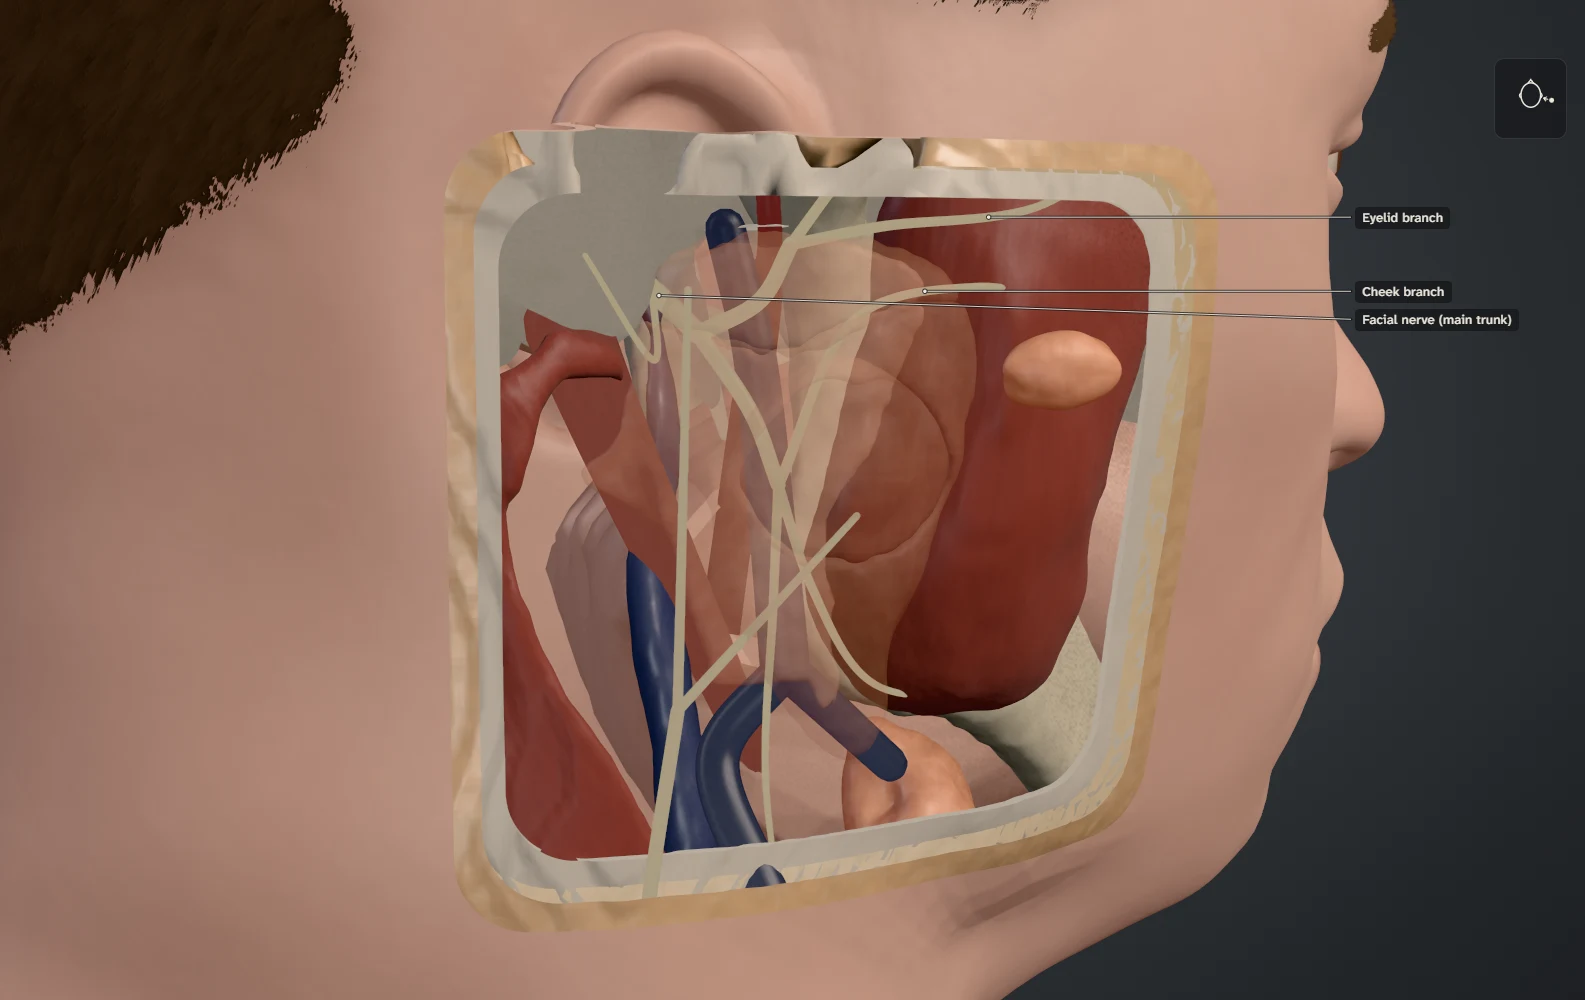
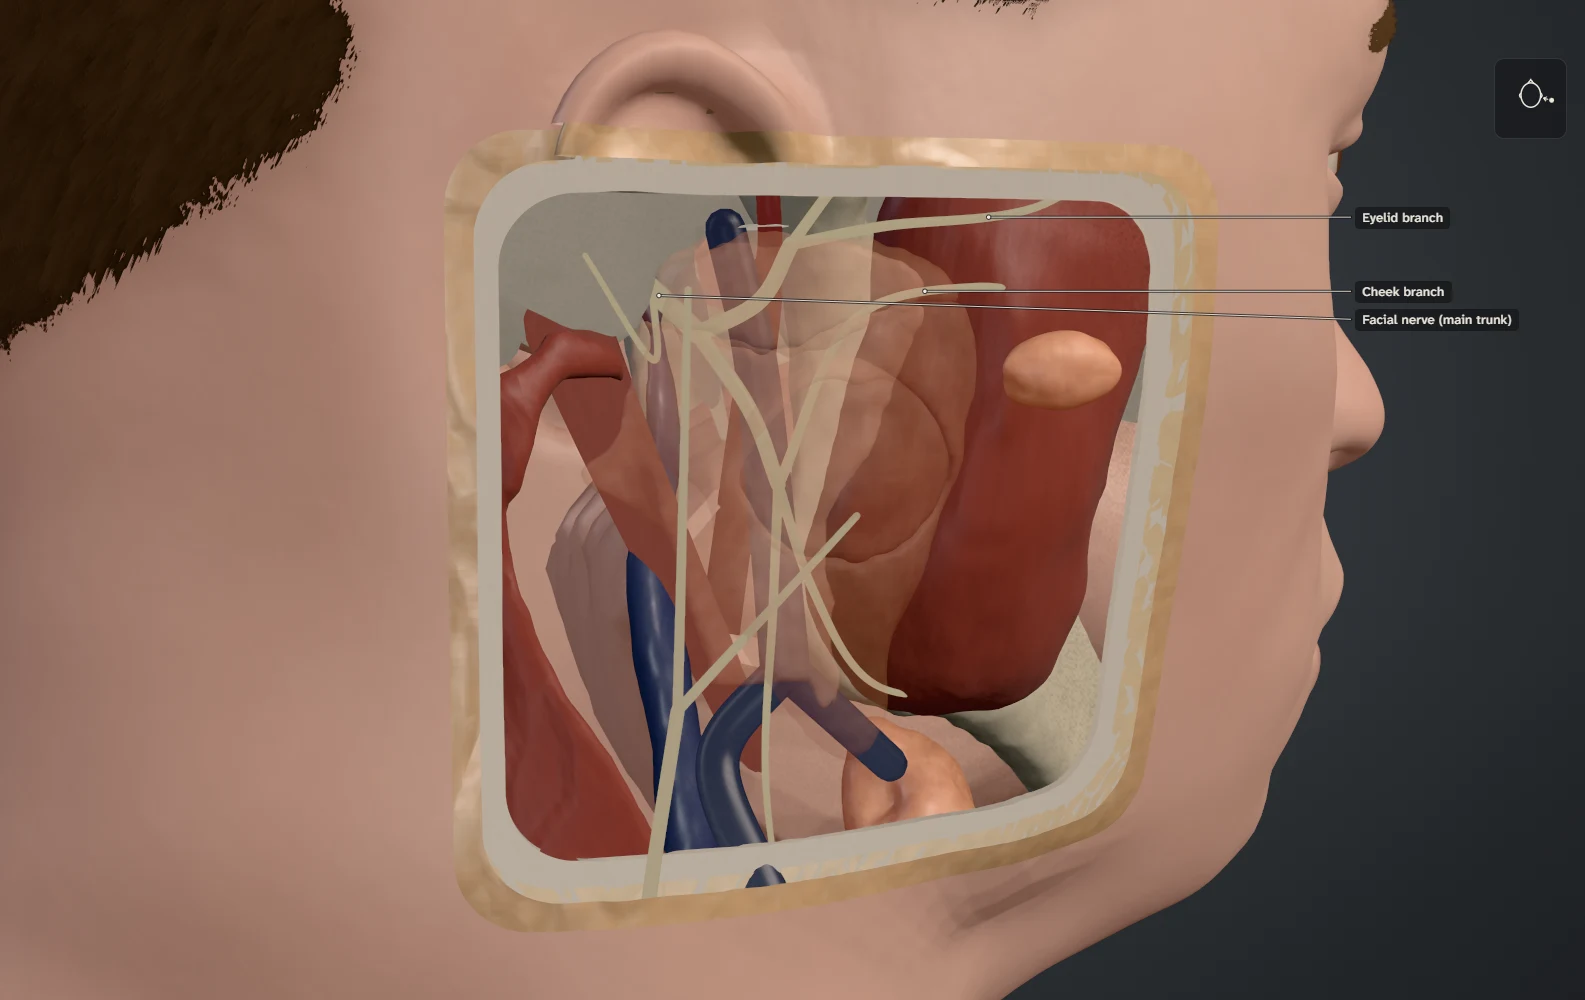
Final validation: capture 25/25, perf within tolerance, figures regenerated; pass closed
- Static figures regenerated on the canonical asset; capture suite 25/25.
- Perf: every measure within tolerance; the final runs ran at ~56 Hz display pacing (a blank page measured the
  same 18 ms), shown by bisecting the asset, the poster and the stage code; recorded in docs/perf/README.md.
- Panels over the stage no longer use backdrop-filter (per-frame re-blur of a live canvas).
- FINAL_PASS_STATUS.md and STATUS.md record the closed pass, validation and deferred P2 items.

diff --git a/apps/site/src/styles/atlas.css b/apps/site/src/styles/atlas.css
@@ -66,6 +66,8 @@ body {
   outline-offset: 3px;
 }
 
+/* Panels over the stage are translucent and do not use backdrop-filter: it would re-blur a canvas that changes every
+   frame, a per-frame compositor cost on lower-end hardware for little visible gain over these opaque scrims. */
 /* ── Masthead ─────────────────────────────────────────────────────────────────────────── */
 .masthead {
   position: fixed;
@@ -100,8 +102,6 @@ body {
   /* a scrim keeps the controls legible over pale bone or bright tissue */
   padding: 0.3rem 0.45rem 0.3rem 0.75rem;
   background: rgba(20, 21, 24, 0.7);
-  -webkit-backdrop-filter: blur(12px);
-  backdrop-filter: blur(12px);
   border: 1px solid rgba(236, 230, 220, 0.12);
   border-radius: 10px;
 }
@@ -217,8 +217,6 @@ body {
   color: var(--ink);
   padding: 0.18rem 0.45rem;
   background: rgba(20, 21, 24, 0.72);
-  -webkit-backdrop-filter: blur(6px);
-  backdrop-filter: blur(6px);
   border-radius: 4px;
   max-width: 218px; /* the margin column (director LABEL_WIDTH 230) */
   width: max-content;
@@ -249,8 +247,6 @@ body {
   height: 5.1rem;
   padding: 0.25rem;
   background: rgba(20, 21, 24, 0.62);
-  -webkit-backdrop-filter: blur(10px);
-  backdrop-filter: blur(10px);
   border: 1px solid rgba(236, 230, 220, 0.12);
   border-radius: 10px;
   pointer-events: none;
@@ -341,8 +337,6 @@ body {
   color: var(--ink-faint);
   padding: 0.55rem 0.8rem 0.6rem 0.75rem;
   background: rgba(20, 21, 24, 0.55);
-  -webkit-backdrop-filter: blur(10px);
-  backdrop-filter: blur(10px);
   border: 1px solid rgba(236, 230, 220, 0.1);
   border-radius: 10px;
 }
@@ -469,8 +463,6 @@ main {
   margin-bottom: 78vh;
   padding: 1.35rem 1.5rem 1.35rem;
   background: rgba(20, 21, 24, 0.74);
-  -webkit-backdrop-filter: blur(14px);
-  backdrop-filter: blur(14px);
   border: 1px solid rgba(236, 230, 220, 0.1);
   border-radius: 10px;
 }
@@ -815,8 +807,6 @@ body.capture .instrument-toggle {
   font: 500 0.8125rem var(--font-sans), system-ui, sans-serif;
   color: var(--ink);
   background: rgba(20, 21, 24, 0.7);
-  -webkit-backdrop-filter: blur(10px);
-  backdrop-filter: blur(10px);
   border: 1px solid rgba(236, 230, 220, 0.14);
   border-radius: 999px;
   padding: 0.4rem 0.85rem;
@@ -834,8 +824,6 @@ body.capture .instrument-toggle {
   overflow-y: auto;
   padding: 0.8rem 0.95rem 1rem;
   background: rgba(20, 21, 24, 0.9);
-  -webkit-backdrop-filter: blur(14px);
-  backdrop-filter: blur(14px);
   border: 1px solid rgba(236, 230, 220, 0.12);
   border-radius: 10px;
   font-family: var(--font-sans), system-ui, sans-serif;

diff --git a/docs/FINAL_PASS_STATUS.md b/docs/FINAL_PASS_STATUS.md
@@ -1,32 +1,39 @@
 # Final presentation pass — status
 
-_Resume here. Pre-pass backup: git tag `pre-final-pass`; built site in `.backup/pre-final-pass-dist/` (ignored).
-Decisions: ADR-0005. Benchmarks: `docs/benchmarks/` (`node tools/capture/benchmarks.mjs`)._
+_Pre-pass backup: git tag `pre-final-pass`; built site in `.backup/pre-final-pass-dist/` (ignored). Decisions:
+ADR-0005. Benchmarks: `docs/benchmarks/` (`node tools/capture/benchmarks.mjs`, `--approve <id>`)._
 
-## Completed phases
-1 Baseline · 2 Exterior geometry (adult MPFB macro, exterior body, hair/brows, tint, footprint) · 3 Materials (baked
-noise volume, per-family mesostructure) · 4 Light and field (looks blended by `light.mix`, studio PMREM, cyclorama,
-camera-relative fill, scene-cut fade) · 5 Hero compositions · 7 UI chrome (editorial restyle, label column clears
-the gauge) · Firefox tumour shader (P0) fixed.
+## Completed phase
+All phases (1 baseline → 10 release validation). Release criteria met on the reference machine; the pass is closed.
 
 ## Current phase
-6/8/9/10: motion check, performance re-measure, whole-atlas consistency, release validation (capture suite, figures,
-Firefox 54 plates, forced WebGL2).
+None. Next project work is clinical review (`docs/STATUS.md`).
 
 ## Remaining release blockers
-- None known at P0. To confirm in the full capture suite: determinism, label legibility, accessibility after the CSS
-  and field change.
-- P1 watch: 1440p p95 (33.4 ms before the noise volume; re-measuring); cold load first picture ~9–10 s (baseline 8.4 s).
-- P2: raised flap underside darkish in `flap`/`barrier-*` plates; hairline crisp at close range; Mid tier p95 33.4 ms
-  under 4× CPU throttle (pre-existing).
+None known (P0/P1). Deferred P2, judged to be at diminishing return:
+- Skin is idealised and smooth at close range (no pore map, by design); the hairline is crisp at close range.
+- The raised flap's underside reads brownish in shadow; small fat flecks at its torn edge; a small notch at its front
+  edge (the band's front limit).
+- The neck and shoulders follow the donor's heavy neck (coupled to the anatomy fit).
+- The loading poster's framing differs from the live framing by a few per cent (crossfaded).
+- Mid tier p95 about 36 ms under 4× CPU throttle (33.4 ms before, at a 60 Hz cadence); first convergence ~9.3 s on a
+  cold load (the poster covers it).
 
 ## Approved visual benchmarks
-`opening` (face), `localisation` (where-parotid), `nerve-operative` (bed), `explore` (explore) — 2026-10-05.
+`opening` (face), `localisation` (where-parotid), `nerve-operative` (bed), `explore` — final versions 2026-10-05.
 
-## Performance (RTX 3070, Chrome, 1600×1000 unless noted)
-Pre-pass: High 59.9 fps / p95 16.8 ms (also at 1440p); Mid p95 33.4 ms; 5.17 MB; first plate converged 8.4 s.
-After materials with procedural noise: 1440p p95 33.4 ms, first plate 19.7 s → baked noise volume: first plate
-8.8–10.3 s (coldload.mjs).
+## Performance (RTX 3070, Chrome, `docs/perf/m5-report.json`)
+- Final: every measure within tolerance of the M5 baseline. High tier median 56.5 fps, p95 18.1 ms at 1600×1000 and
+  1440p; payload 5.61 MB; scene interactive 1.94 s; first plate converged 9.30 s.
+- The display paced at about 56 Hz in the final runs (a blank page: 18 ms); the scene met every vsync. At 60 Hz
+  earlier the same build measured 59.9 fps, p95 16.8 ms.
+- Procedural shader noise had cost 15 s of shader compile (first picture 19.7 s); the baked noise volume removed it.
+
+## Validation (final state)
+Capture suite 25/25 (determinism cold/forward/backward, labels, axe WCAG 2.2 AA, focus, reduced motion, static
+tier, print); Firefox 157: 54/54 plates, no console errors; forced WebGL2 renders every hero; two clean anatomy
+builds byte-identical; 27/27 anatomy checks; `npm test` 38/38; `validate` ok.
 
 ## Next concrete action
-Read the perf run; then `npm run capture` (figures + suite) and the full Firefox pass; fix what they find.
+Clinical review (STATUS.md item 2). For further look development: `snap.mjs --ui`, `benchmarks.mjs`,
+`exterior_only.sh`.

diff --git a/docs/STATUS.md b/docs/STATUS.md
@@ -4,17 +4,15 @@ _Last updated: 2026-10-05 (final presentation pass; see `docs/FINAL_PASS_STATUS.
 
 ## Current phase
 
-**M2–M5 implementation complete; final presentation pass in progress (`docs/FINAL_PASS_STATUS.md`).** The Firefox tumour defect is fixed (five plates checked; the full pass is part of the final validation). The owner authorised progression beyond M1 (2026-10-04) to an implementation-complete private-use application. That authorisation does not resolve M1's exceptions, answer the owner's comprehension questions or constitute clinical sign-off. **Clinical review remains after implementation; public launch is blocked on it.**
+**M2–M5 implementation complete; final presentation pass complete (`docs/FINAL_PASS_STATUS.md`, ADR-0005).** Final validation: capture suite 25/25, Firefox 157 54/54 plates without errors, two clean anatomy builds byte-identical, perf within tolerance. The owner authorised progression beyond M1 (2026-10-04) to an implementation-complete private-use application. That authorisation does not resolve M1's exceptions, answer the owner's comprehension questions or constitute clinical sign-off. **Clinical review remains after implementation; public launch is blocked on it.**
 
 All 54 plates in 11 chapters are authored, rendered and reviewed as one sequence (contact sheets of the committed static figures, and the live site under the capture suite).
 
 ## Next, in order
 
-1. **Final presentation pass** (owner brief, 2026-10-04): an adult exterior (head, neck, shoulders, hair), tissue
-   mesostructure, authored light, a cyclorama field, editorial UI. Anatomy frozen; decisions in ADR-0005; approved
-   benchmarks in `docs/benchmarks/`. The Firefox tumour shader (Naga rejected `smoothstep()` of constants where the
-   tumour pieces lack ink fields) is fixed. Remaining: the full capture suite, the 54-plate Firefox pass and the
-   forced-WebGL2 pass on the new build.
+1. **Final presentation pass: done** (2026-10-05). Adult exterior, tissue mesostructure, authored light, cyclorama
+   field, editorial UI, the loading poster, the Firefox tumour fix; anatomy frozen (27/27 checks). Deferred P2 items
+   are listed in `docs/FINAL_PASS_STATUS.md`.
 2. **Clinical review** of the 68 claims, the anatomy QC log and the review packet (`docs/review/index.html`, regenerated). Deferred by owner decision until implementation was complete.
 3. **Evidence items to verify before any public use** (see Open questions).
 

diff --git a/docs/perf/README.md b/docs/perf/README.md
@@ -61,3 +61,11 @@ cold load 5.57 MB (+7.7%), scene interactive 2.0 s, first plate converged 9.35 s
 intermediate run with procedural shader noise (1440p p95 33.4 ms, first plate 19.7 s) that led to the baked noise
 volume (ADR-0005). `node tools/capture/coldload.mjs` separates main-thread stalls from GPU shader compilation on a
 cold load.
+
+**Display pacing caveat (2026-10-05, later runs).** The last runs measured a median of 56 fps and p95 of 18.1 ms in
+every configuration. A blank page in the same browser measured the same 18 ms frame interval, so the display or
+compositor was pacing at about 56 Hz rather than 60 Hz. The scene still met every vsync. Bisecting (the previous
+asset, the stage code of the earlier run, no loading poster) gave identical numbers. Compare runs only at the same
+refresh rate; check a blank page's rAF interval first.
+History entries 2026-10-05T09-57, 10-01 and 10-04 are single-test bisect runs (the previous asset, no poster, the
+earlier stage code); `m5-report.json` is the last full run on the final code (2026-10-05T09-45).
